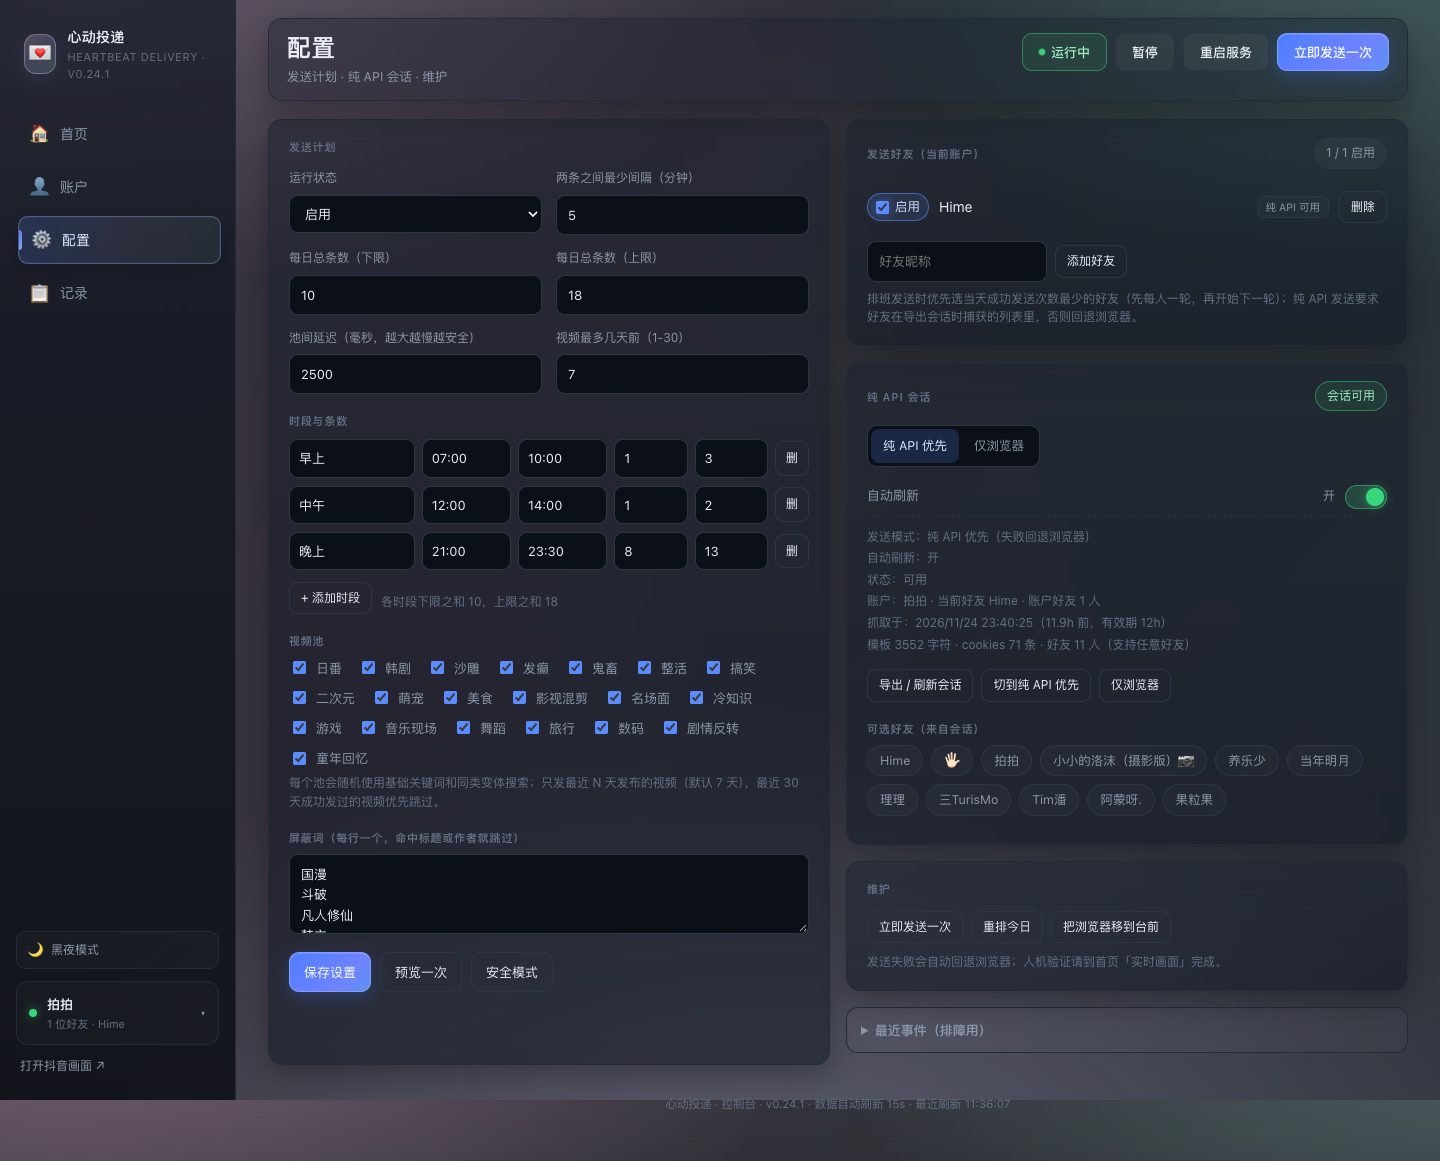
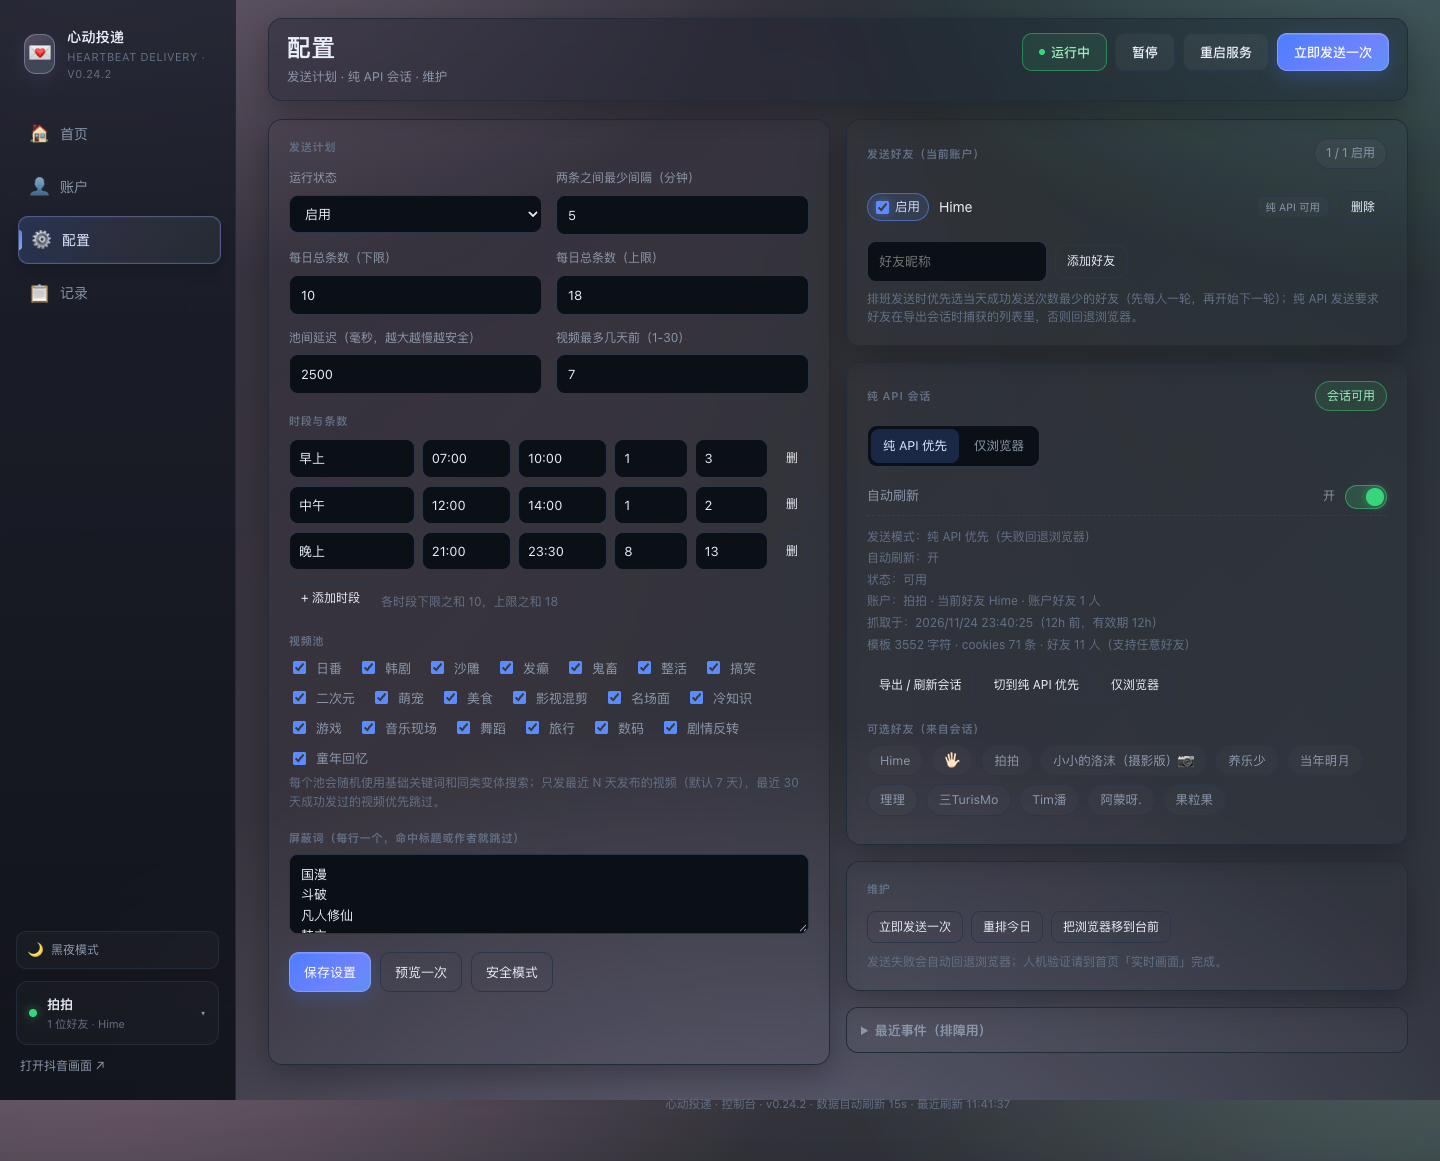
fix(ui): 去掉卡片填充色块，贝母色贯通(0.24.2)

Changed region(s): [[0.1875, 0.7442, 0.8438, 0.9612], [0.75, 0.5271, 0.8125, 0.5581], [0.5938, 0.7132, 0.6562, 0.7442]]

diff --git a/src/page.html b/src/page.html
@@ -126,10 +126,9 @@
   .top-actions .pill.bad::before{background:var(--bad);opacity:1}
 
   /* cards / layout */
-  .card{background:linear-gradient(180deg,rgba(20,27,40,.43),rgba(14,20,31,.52));
+  .card{background:transparent;
     border:1px solid var(--line);border-radius:var(--r);
-    padding:18px 20px;box-shadow:var(--shadow);min-width:0;
-    backdrop-filter:blur(22px) saturate(1.12);-webkit-backdrop-filter:blur(22px) saturate(1.12)}
+    padding:18px 20px;box-shadow:var(--shadow);min-width:0}
   .card.pad-sm{padding:14px 16px}
   .card-head{display:flex;align-items:center;justify-content:space-between;gap:12px;margin-bottom:14px}
   .eyebrow{font-size:11px;letter-spacing:.8px;text-transform:uppercase;color:var(--dim2);font-weight:600}
@@ -264,7 +263,7 @@
   .advanced-add>summary:hover{color:var(--txt)}
   .advanced-add .form{grid-template-columns:1fr;gap:10px;margin-top:10px}
   .advanced-add .btn{margin-top:10px}
-  details.card.mutual-card{padding:0;background:linear-gradient(180deg,rgba(20,27,40,.43),rgba(14,20,31,.52));backdrop-filter:blur(22px) saturate(1.12);-webkit-backdrop-filter:blur(22px) saturate(1.12)}
+  details.card.mutual-card{padding:0;background:transparent}
   .mutual-card>summary{display:flex;align-items:center;justify-content:space-between;gap:12px;padding:16px 20px;margin:0;list-style:none}
   .mutual-card>summary::-webkit-details-marker{display:none}
   .mutual-card>summary .eyebrow{pointer-events:none}
@@ -367,7 +366,7 @@
   .friend-check input:checked{filter:drop-shadow(0 0 5px rgba(91,140,255,.5))}
   .tag:hover{border-color:rgba(91,140,255,.35);color:#cfdcf2}
 
-  .table-wrap{background:rgba(5,8,14,.18)}
+  .table-wrap{background:transparent}
   th{backdrop-filter:blur(10px)}
   tbody tr{transition:background .15s ease}
   tbody tr:hover td{background:rgba(91,140,255,.055)}
@@ -431,9 +430,8 @@
   html[data-theme="light"] .side-link{color:var(--dim)}
 
   html[data-theme="light"] .topbar{background:rgba(255,255,255,.34);border-color:rgba(255,255,255,.62);box-shadow:var(--shadow)}
-  html[data-theme="light"] .card{background:rgba(255,255,255,.34);border-color:rgba(255,255,255,.62);box-shadow:0 8px 24px rgba(31,53,89,.06);
-    backdrop-filter:blur(22px) saturate(1.08);-webkit-backdrop-filter:blur(22px) saturate(1.08)}
-  html[data-theme="light"] details.card.mutual-card{background:rgba(255,255,255,.34);border-color:rgba(255,255,255,.62)}
+  html[data-theme="light"] .card{background:transparent;border-color:rgba(255,255,255,.42);box-shadow:0 8px 24px rgba(31,53,89,.04)}
+  html[data-theme="light"] details.card.mutual-card{background:transparent;border-color:rgba(255,255,255,.42)}
   html[data-theme="light"] .card:hover{border-color:rgba(47,107,255,.3);box-shadow:0 16px 36px rgba(31,53,89,.10),0 0 0 1px rgba(47,107,255,.04)}
   html[data-theme="light"] .hero-num{background:linear-gradient(180deg,#1b2638,#526480);-webkit-background-clip:text;background-clip:text;color:transparent}
   html[data-theme="light"] .progress{background:#e8eef7;border-color:#dce5f1;box-shadow:inset 0 1px 2px rgba(31,53,89,.08)}
@@ -473,14 +471,14 @@
   html[data-theme="light"] .seg{background:#eef2f9;border-color:var(--line2)}
   html[data-theme="light"] .seg button{color:var(--dim)}
   html[data-theme="light"] .seg button.on{background:#fff;color:#1f49b8;box-shadow:0 2px 8px rgba(31,53,89,.10)}
-  html[data-theme="light"] details{background:rgba(255,255,255,.30);border-color:var(--line)}
+  html[data-theme="light"] details{background:transparent;border-color:var(--line)}
   html[data-theme="light"] details:hover{border-color:rgba(47,107,255,.22)}
 
-  html[data-theme="light"] .table-wrap{background:rgba(255,255,255,.28);border-color:var(--line)}
+  html[data-theme="light"] .table-wrap{background:transparent;border-color:var(--line)}
   html[data-theme="light"] th{background:#f7f9fd;border-bottom-color:var(--line);color:var(--dim2)}
   html[data-theme="light"] td{border-bottom-color:#eef2f8}
   html[data-theme="light"] tbody tr:hover td{background:rgba(47,107,255,.045)}
-  html[data-theme="light"] .account-row{background:rgba(255,255,255,.34);border-color:var(--line)}
+  html[data-theme="light"] .account-row{background:rgba(255,255,255,.12);border-color:var(--line)}
   html[data-theme="light"] .account-row.active{background:rgba(47,107,255,.075);border-color:rgba(47,107,255,.28)}
   html[data-theme="light"] .avatar{background:rgba(47,107,255,.10);border-color:rgba(47,107,255,.24);color:#1f49b8}
   html[data-theme="light"] .inline-note{background:rgba(47,107,255,.055);border-color:rgba(47,107,255,.18);color:var(--dim)}

diff --git a/CHANGELOG.md b/CHANGELOG.md
@@ -1,5 +1,13 @@
 # Changelog
 
+## 0.24.2 — 2026-11-25
+
+- **去掉卡片填充和 backdrop-filter**:滚动时不再出现矩形色块或模糊边界；卡片只保留边框/阴影，
+  页面级贝母光晕直接穿过卡片、表格和折叠区，背景与内容区保持同一层颜色。
+- 表格、账户行、折叠区的浅色底同步降为透明/极淡，避免局部出现另一块白底。
+- 保留顶部玻璃条和侧栏导航的独立可读性；输入框/按钮仍不透明。
+
+
 ## 0.24.1 — 2026-11-25
 
 - **头部改为玻璃条**:顶部标题/操作区不再是一条通栏灰带，改为和卡片一致的圆角玻璃表面，

diff --git a/docs/optimization-plan.md b/docs/optimization-plan.md
@@ -360,6 +360,7 @@ CI 只跑 5 个旧测试文件，新增的 `friend-picker`、`video-picker`、`p
 - 移动端 `.main` 横向溢出修复。
 - 全局贝母氛围 + 账户页简化重排（0.24.0）。
 - 头部玻璃条、卡片与背景贝母色贯通、移动端两行导航（0.24.1）。
+- 去掉卡片填充/滚动色块，贝母色直接穿过卡片（0.24.2）。
 
 以下建议明确**不采用**：
 
